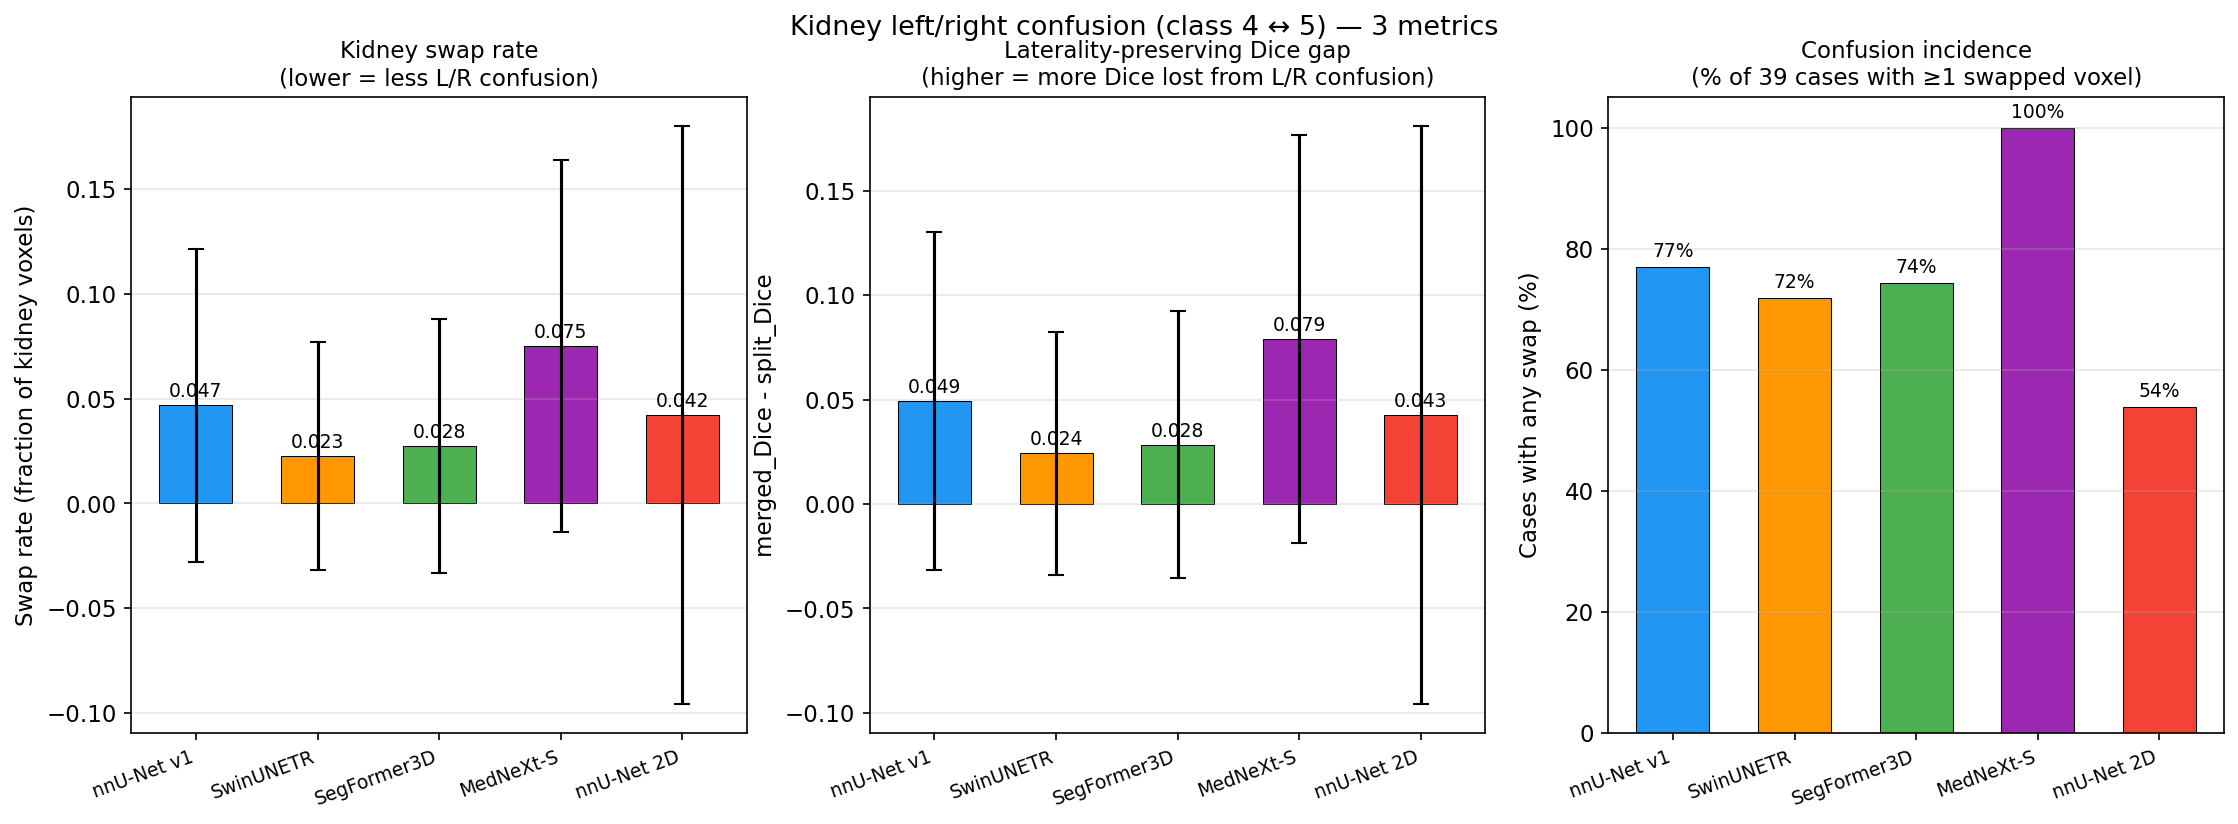
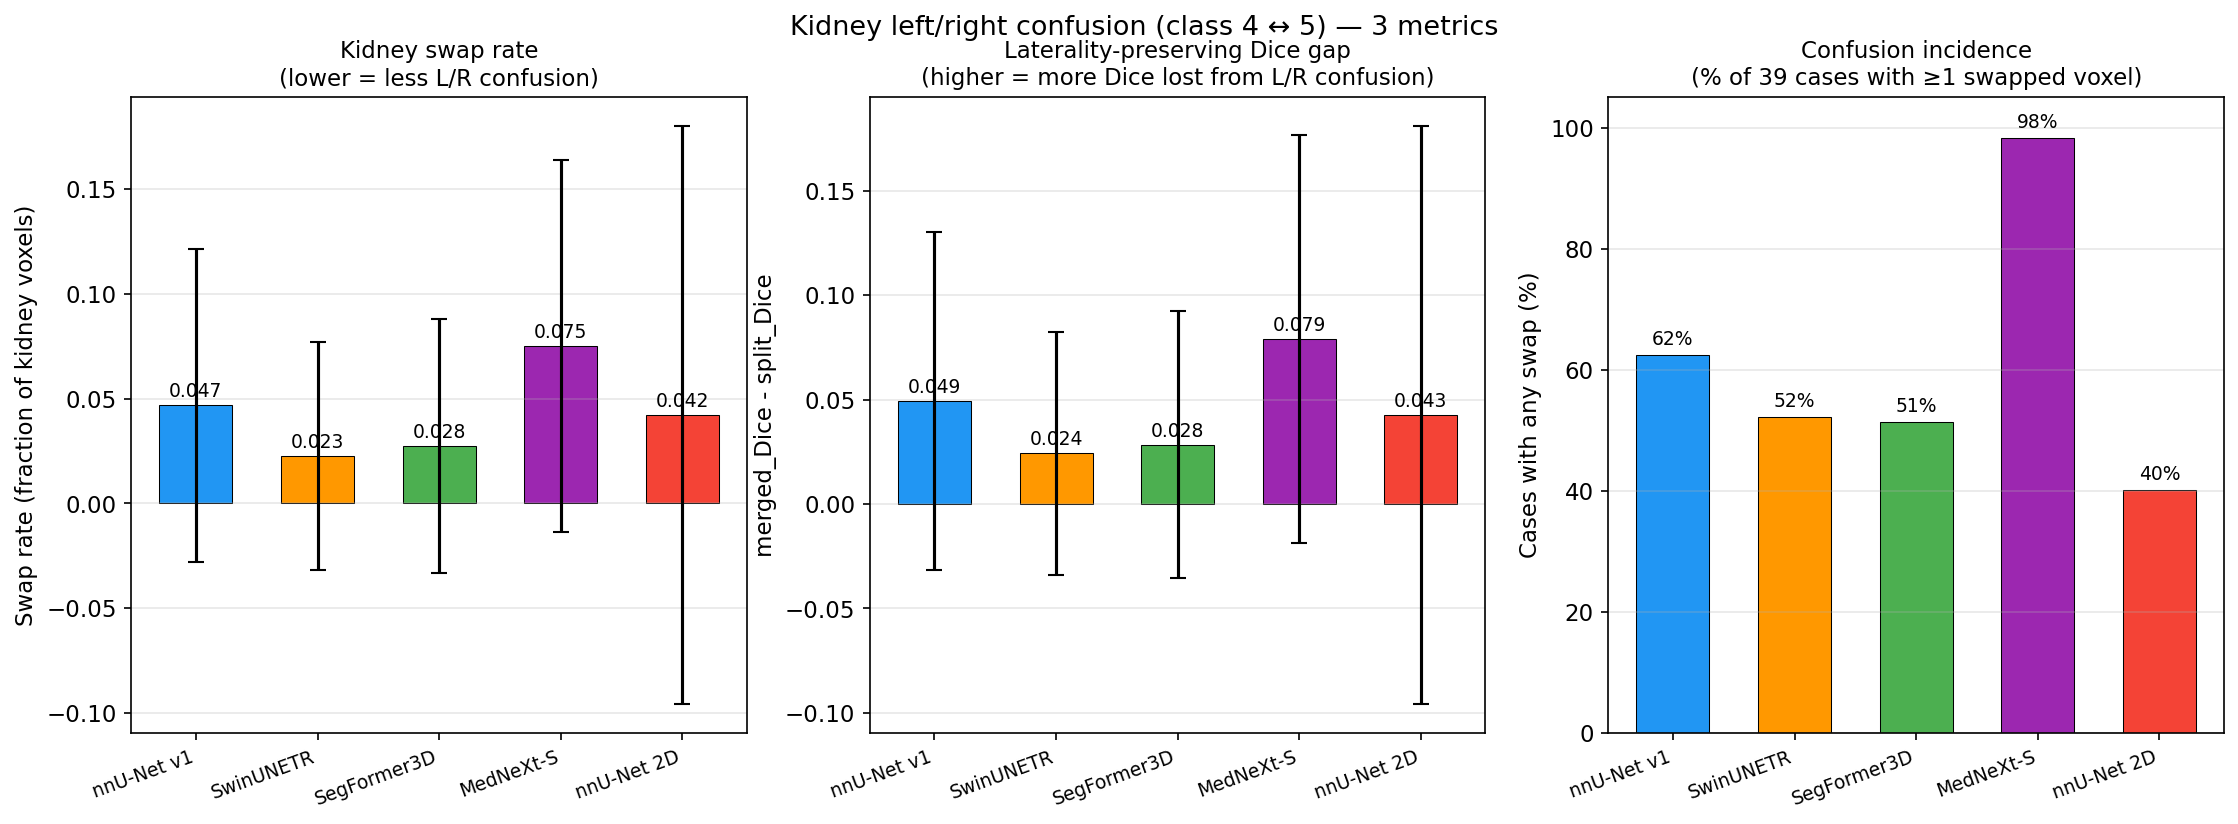
Fix kidney swap incidence: per-seed (mean±std) not any-seed
Previous: case counted as 'has swap' if ANY of 3 seeds had swap → inflated
by 14-23pp. Now: each seed independently computes case-incidence, then
mean±std across 3 seeds. Corrected: SwinUNETR 72%→52±8%, SegFormer 74%→51±8%.

Changed region(s): [[0.7091, 0.3034, 0.8941, 0.5158], [0.9249, 0.4551, 0.9866, 0.6068], [0.8941, 0.1214, 0.9249, 0.182]]

diff --git a/evaluation/make_figures.py b/evaluation/make_figures.py
@@ -266,27 +266,33 @@ fig.savefig(FIG/"fig10_dice_p10_heatmap.png"); plt.close()
 ks_path = RES / "kidney_swap.csv"
 if ks_path.exists():
     ks_rows = list(csv.DictReader(open(ks_path)))
-    # aggregate per network: mean swap_rate, mean lp_dice_gap, swap case incidence
+    # aggregate per network: per-seed incidence (mean±std), then swap_rate/lp_gap
     ks_summary = {}
+    SEEDS_KS = sorted(set(int(r["seed"]) for r in ks_rows))
     for n in NETS:
         sub = [r for r in ks_rows if r["network"] == n]
         if not sub:
             continue
-        # per-case (3-seed avg) then network-level
-        case_swap = {}
-        case_gap = {}
+        # per-case (3-seed avg) for swap_rate and lp_dice_gap
+        case_swap, case_gap = {}, {}
         for r in sub:
             case_swap.setdefault(r["case_id"], []).append(f(r["swap_rate"]))
             case_gap.setdefault(r["case_id"], []).append(f(r["lp_dice_gap"]))
         swap_vals = [np.mean(v) for v in case_swap.values()]
         gap_vals = [np.mean(v) for v in case_gap.values()]
-        swap_incidence = np.mean([1 if np.mean(v) > 0 else 0 for v in case_swap.values()])
+        # incidence: per-seed (each seed independently), then mean±std across seeds
+        per_seed_inc = []
+        for seed in SEEDS_KS:
+            seed_cases = [r for r in sub if int(r["seed"]) == seed]
+            if seed_cases:
+                per_seed_inc.append(np.mean([int(r["has_swap"]) for r in seed_cases]))
         ks_summary[n] = {
             "swap_rate": np.mean(swap_vals),
             "swap_rate_std": np.std(swap_vals),
             "lp_gap": np.mean(gap_vals),
             "lp_gap_std": np.std(gap_vals),
-            "incidence": swap_incidence,
+            "incidence": np.mean(per_seed_inc) if per_seed_inc else 0,
+            "incidence_std": np.std(per_seed_inc) if per_seed_inc else 0,
         }
 
     if ks_summary: